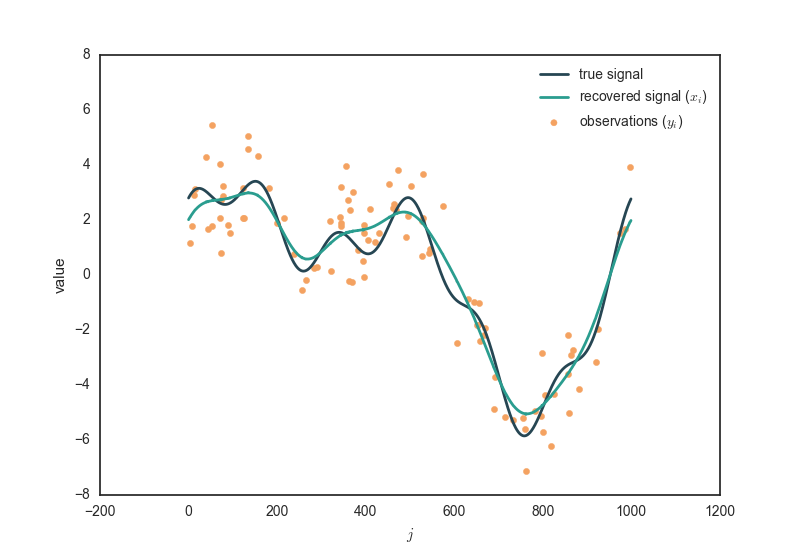
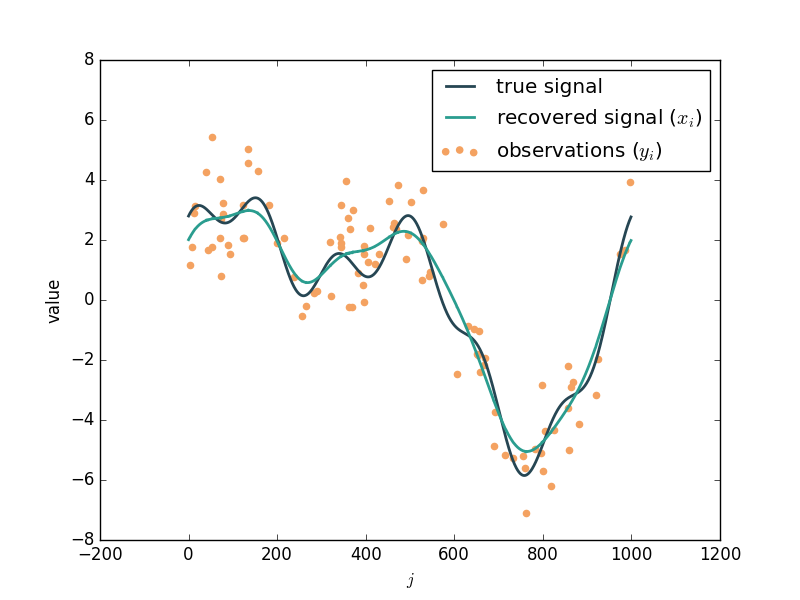
making CH1 ready for lecture!

diff --git a/Chapters/01.Quadratic/quadratic.py b/Chapters/01.Quadratic/quadratic.py
@@ -139,7 +139,7 @@ if __name__ == '__main__':
     # example system
 
     P = np.array([[4,1],[1,2]]) * 2
-    q = np.array([[2], [1]])
+    q = np.array([[3], [1]])
     r = 12
     x0 = np.zeros((2, 1))
     #x0 = np.array([[1.0], [1.0]])
@@ -174,10 +174,10 @@ if __name__ == '__main__':
     print('new values:')
     xstar_gd, n_steps_gd= gradient_descent_quadratic(P, q,
                         x0.copy(), trace=True)
-    print('solution using GD: xstar_exact={} ({} steps)'.format(
-                                    xstar_exact, n_steps_gd))
+    print('solution using GD: xstar={} ({} steps)'.format(
+                                    xstar_gd, n_steps_gd))
 
     xstar_gdm, n_steps_gdm = gradient_descent_quadratic_momentum(P, q,
                         x0.copy(), beta=0.2, trace=True)
-    print('solution using GDM: xstar_exact={} ({} steps)'.format(xstar_exact,
+    print('solution using GDM: xstar={} ({} steps)'.format(xstar_gdm,
                             n_steps_gdm))

diff --git a/Chapters/01.Quadratic/signal_recovery.py b/Chapters/01.Quadratic/signal_recovery.py
@@ -175,7 +175,7 @@ if __name__ == '__main__':
 
     print(pd.DataFrame(steps, index=betas, columns=Cs))
 
-    fig, axes = plt.subplots(ncols=2)
+    fig, axes = plt.subplots(ncols=2, figsize=(12,8))
 
     axes[0].imshow(np.log10(steps), interpolation='nearest', cmap='Greens')
     axes[0].set_xticks(range(len(Cs)))

diff --git a/Chapters/01.Quadratic/notes_quadratic.md b/Chapters/01.Quadratic/notes_quadratic.md
@@ -9,6 +9,7 @@
 ## Motivation
 
 Quadratic systems are important! Firstly, systems close to their maximum can closely be approximated by a quadratic system, studying the minimization of quadratic systems can teach us about minimization of general convex functions. Quadratic systems are also important in their own right! Many statistical models, graph problems, molecular models etc. can be formulated as quadratic systems:
+
 - least-square minimization problems
 - inference using multivariate normal distributions
 - molecular modeling using spring-mass systems
@@ -328,7 +329,7 @@ def gradient_descent_quadratic(P, q, x0, epsilon=1e-4, trace=False):
     x = x0  # initial value
     n_steps = 0
     while True:
-        ...  # compute GD direction
+        Dx = ...  # compute GD direction
         if ...
             break
         t = ...  # step size
@@ -369,7 +370,7 @@ $$
 which allows us to rewrite the error in closed-form:
 
 $$
-f(\mathbf{x}^{(k)}) - f(\mathbf{x}^\star) = \frac{1}{2}\sum_{i=1}^n (1-t\lambda_i)^{2k}\lambda_i[(\mathbf{U}_i)^\top(\mathbf{x}^{(0)}-\mathbf{x}^\star)]^2\,.
+f(\mathbf{x}^{(k)}) - f(\mathbf{x}^\star) = \frac{1}{2}\sum_{i=1}^n (1-t\lambda_i)^{2k}\lambda_i[(\mathbf{u}_i)^\top(\mathbf{x}^{(0)}-\mathbf{x}^\star)]^2\,.
 $$
 
 Here, we see that:
@@ -429,10 +430,8 @@ with $\beta\in[0,1]$ called the *momentum parameter*.
 
 **Assignment 5**
 
-Complete the code for gradient descent with momentum. Use it find the solution for the above system, also starting at $\mathbf{x}=[0,0]^\top$. Set $\beta=0.1$. Do you see an improvement?
-
-Compare both algorithms for minimizing system:
-
+1. Complete the code for gradient descent with momentum. Use it find the solution for the above system, also starting at $\mathbf{x}=[0,0]^\top$. Set $\beta=0.1$. Do you see an improvement?
+2. Compare both algorithms for minimizing the following system:
 $$
 f(\mathbf{x}) = \frac{1}{2}\mathbf{x}^\top\begin{bmatrix}500 & 2 \\ 2 & 1\end{bmatrix}\mathbf{x} + \begin{bmatrix}-40 \\100 \end{bmatrix}^\top\mathbf{x} -5\,,
 $$
@@ -496,6 +495,7 @@ $$
 with $K^{-1}$ an inverse kernel (or covariance matrix) and $C$ a tuning hyperparameter. The matrix $K^{-1}$ encodes how the different elements of $\mathbf{x}$ are related, constructing such a matrix is a topic in machine learning (see course Predictive Modelling). For our purposes, we have chosen this matrix as such that elements should have values closes to each other. Hence, the minimization problem has two terms:
 - a data fitting term to make sure that the recovered vector $\mathbf{x}$ matches the observations,
 - a regularization term to ensure smoothness of the solution.
+
 The parameter $C$ determines the trade-off between the two terms.
 
 The problem can written purely in matrix notation by using the $(m\times n)$ *bookkeeping matrix* $R$ for which $R_{ij}=1$ if the the $j$-th element of $\mathbf{y}$ corresponds to the $i$-th element of $\mathbf{x}$ and $R_{ij}=0$ otherwise. Hence, the compact matrix form is:
